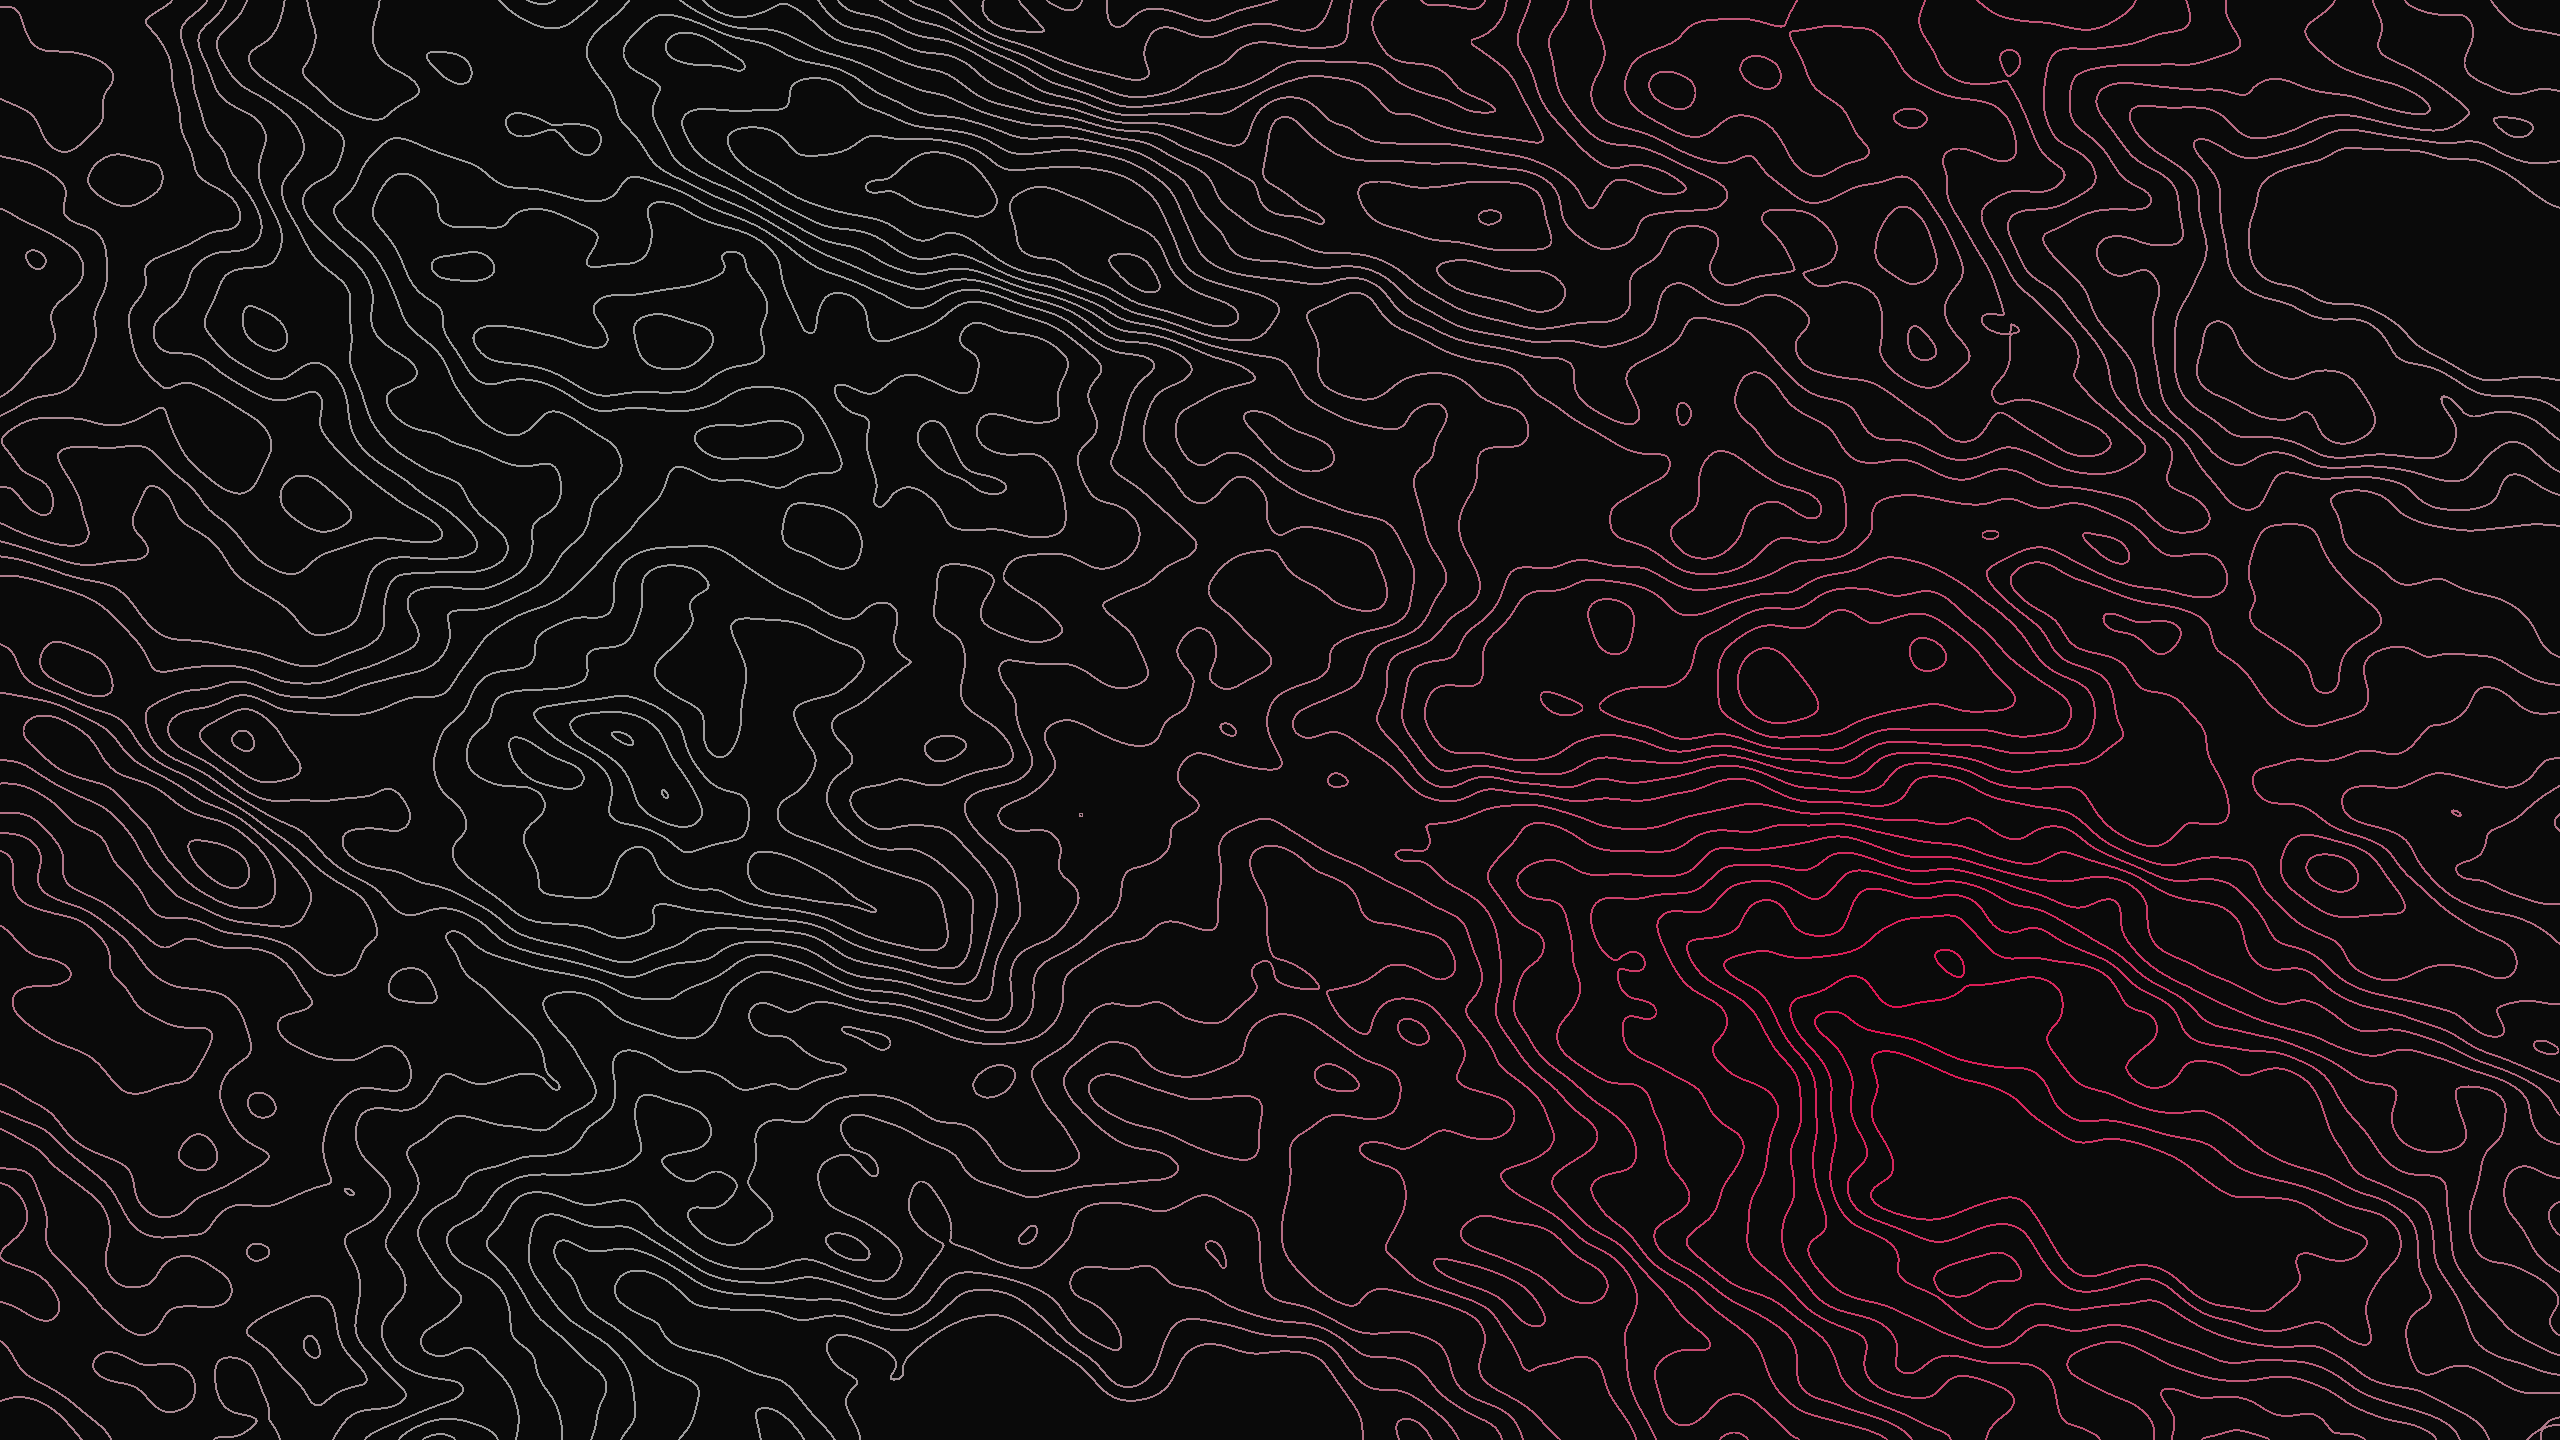
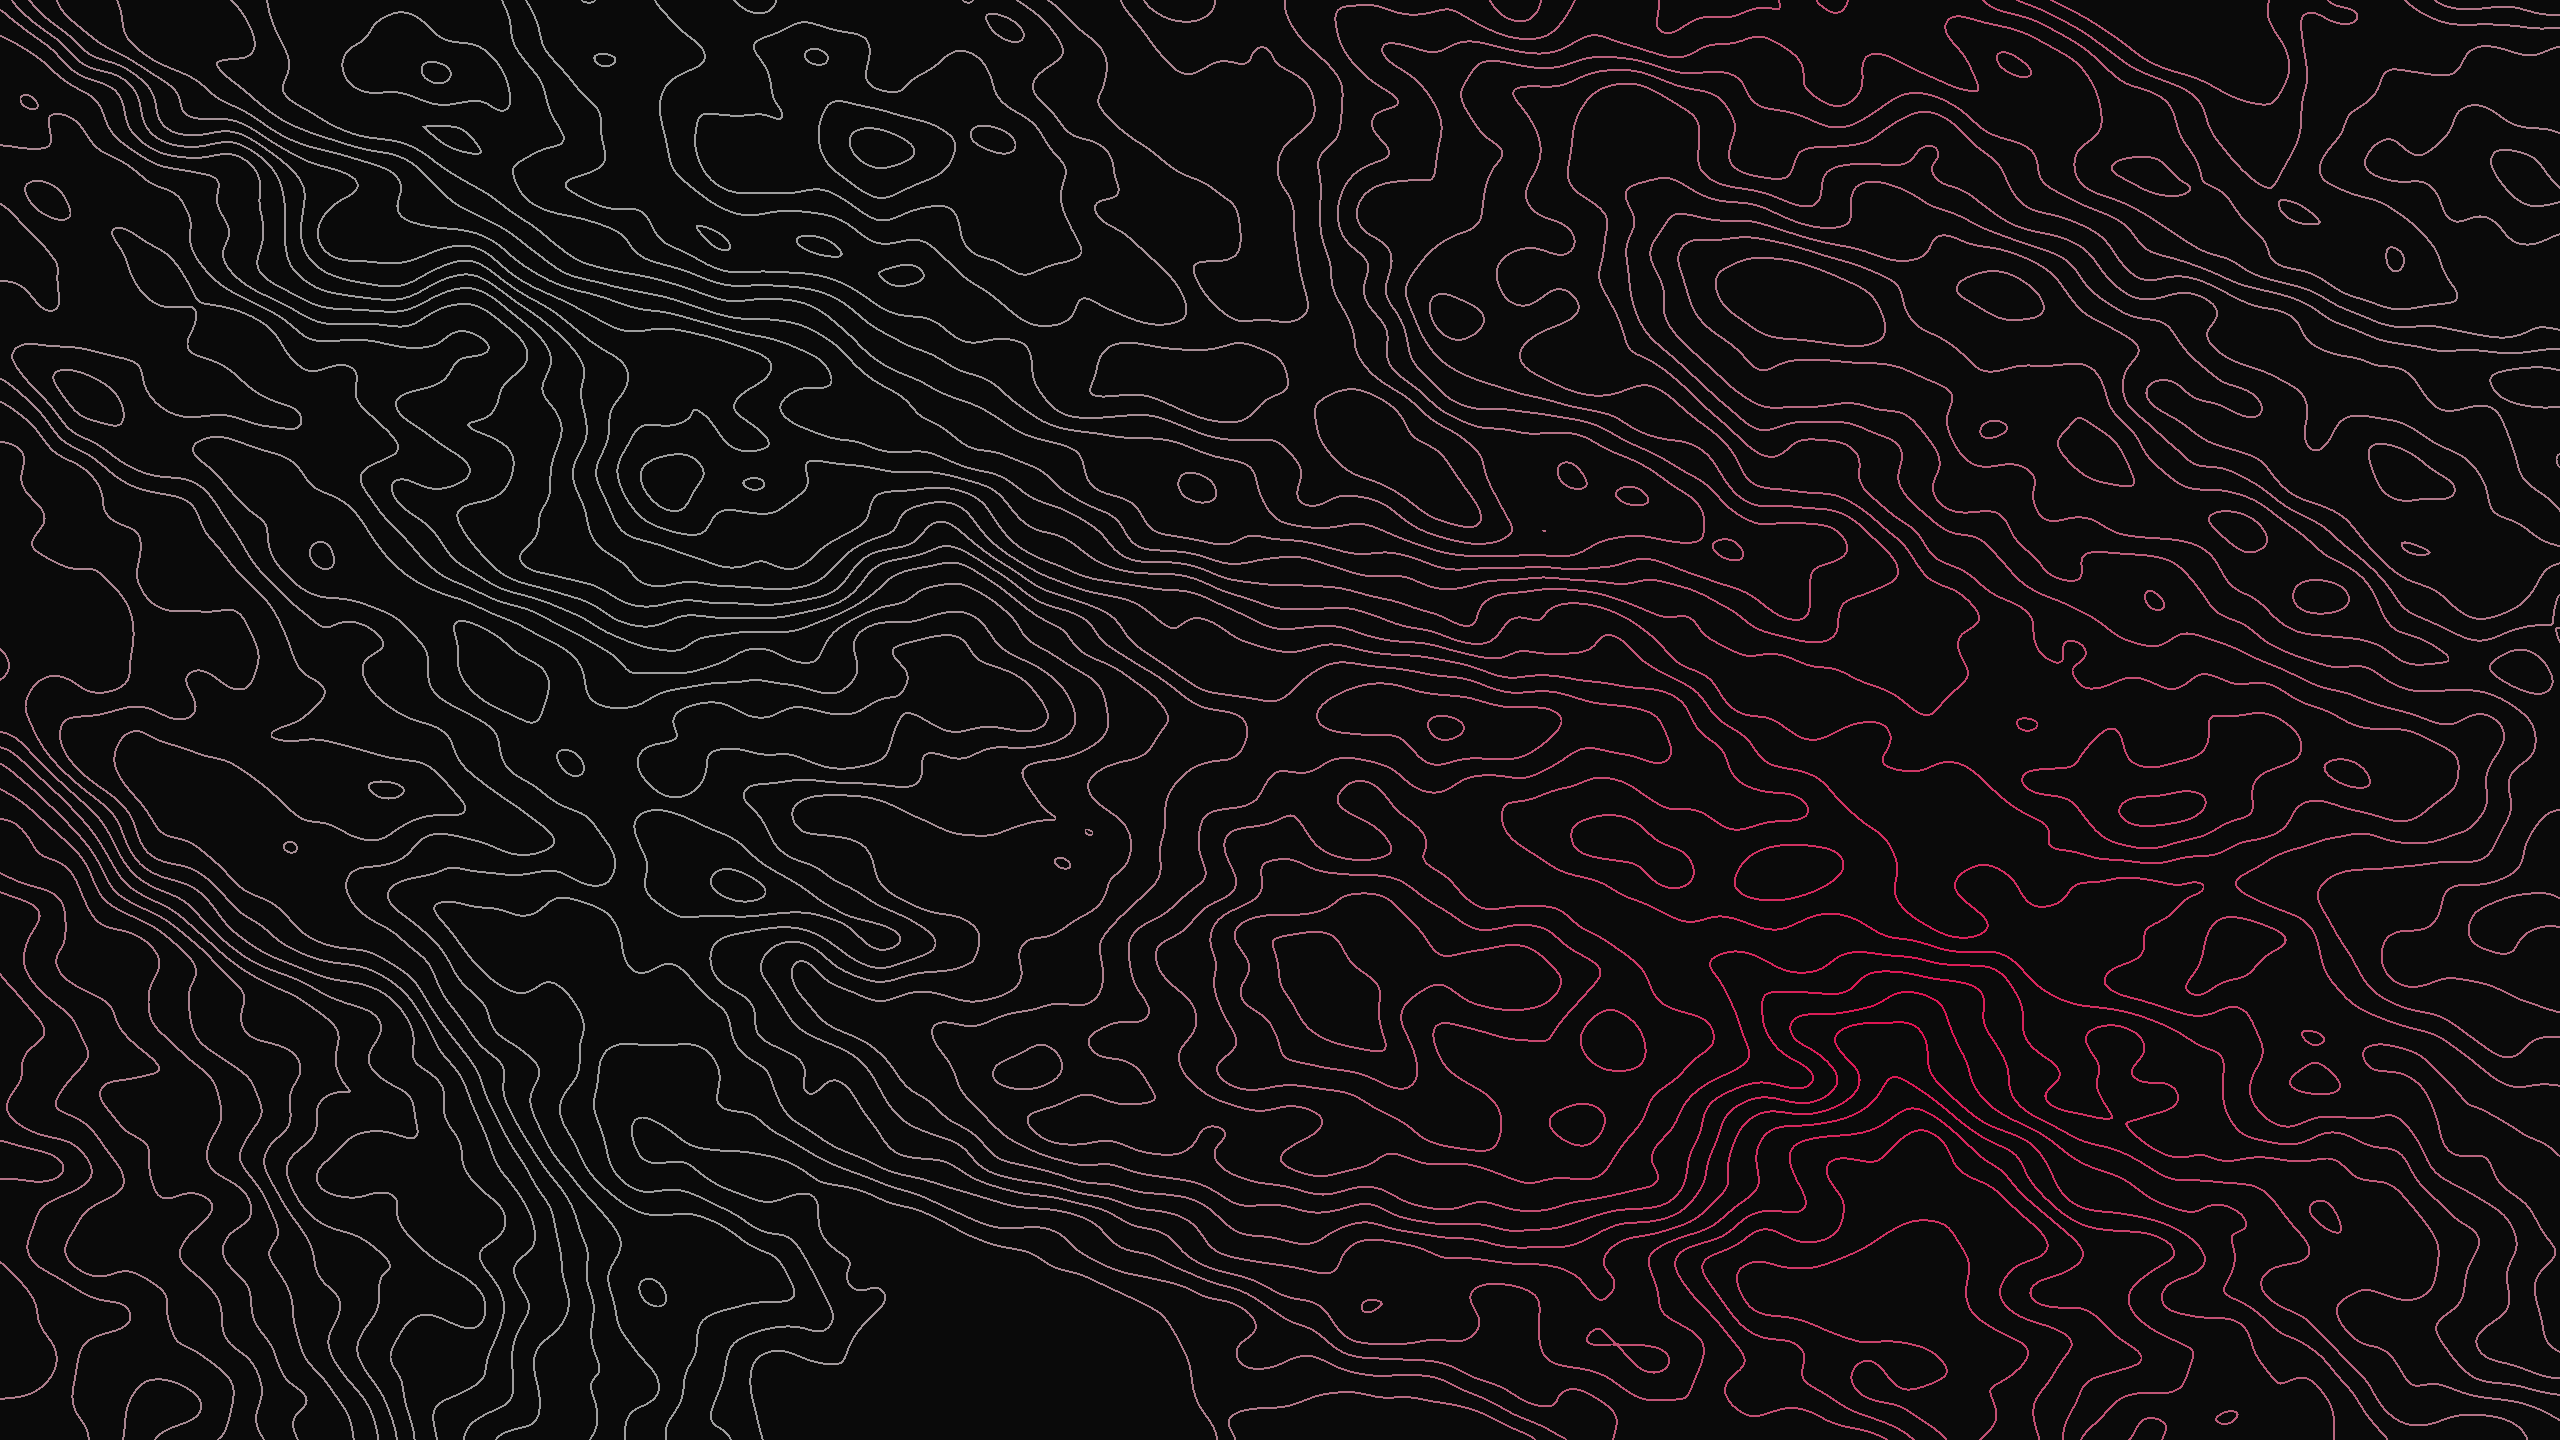
Lift the red, shrink the wallpapers, reshoot the preview
red moves from #C4143F to #D62A4E, which takes its contrast on the
background from 3.26:1 to 3.98:1. That slot draws error text and the
deleted side of a diff; going further turns the hue pink and closes the
gap to bright_red.

The wallpapers were 16-bit PNGs of flat graphics, 5.7M for the seven.
They are now quantized to an 8-bit 256-color palette with dithering off,
which keeps the flats clean and the gradients free of banding, and drops
the set to 456K (thumbnails from 340K to 112K). The fractal behind
04-contour is seeded, so regenerating no longer rewrites the file with a
different pattern.

preview.png is a fresh capture: colors.toml in Neovim, btop, and a diff
of the red change, so the palette and what it does to real output are
both in the shot.

diff --git a/README.md b/README.md
@@ -17,7 +17,7 @@ omarchy theme set carmine
 |---|---|
 | background | `#0D0D0D` |
 | foreground | `#DEDEDE` |
-| red | `#C4143F` |
+| red | `#D62A4E` |
 | accent | `#D70A53` |
 
 Red is the only dominant hue. Green, blue and cyan are kept low-saturation so
